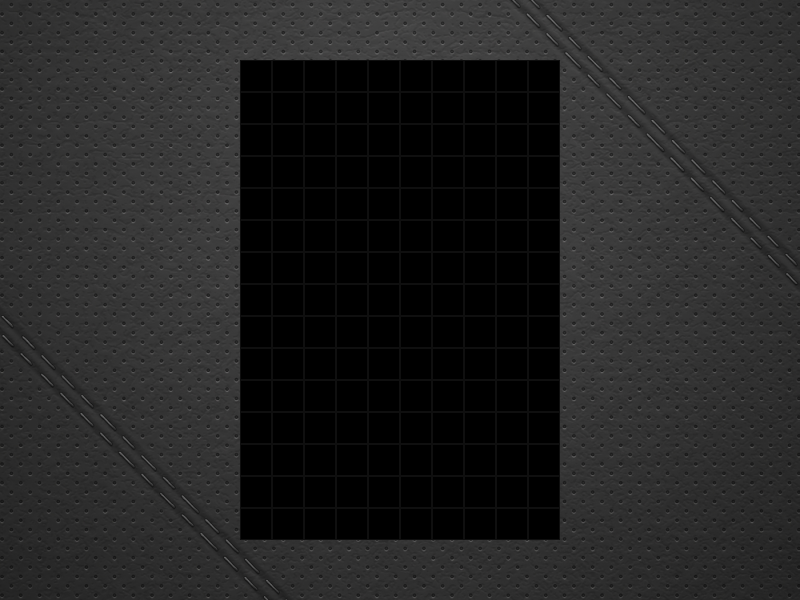
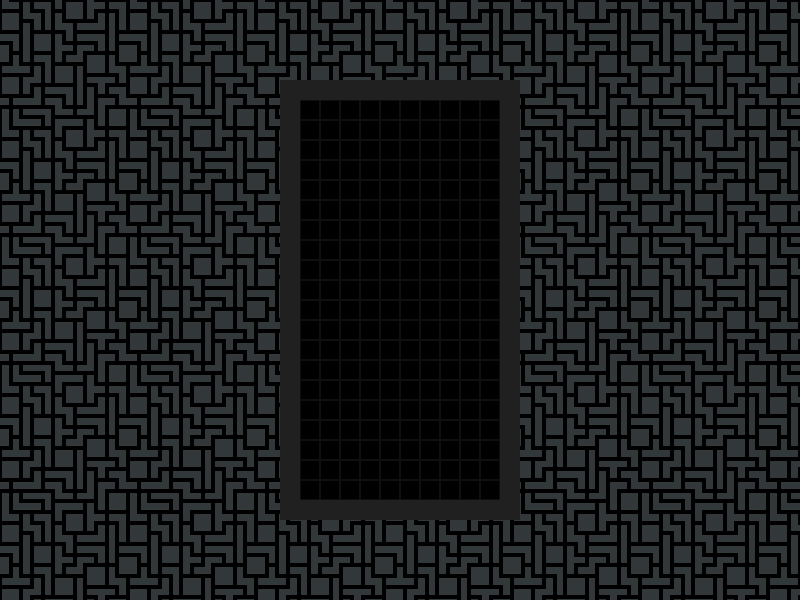
Better sounds and textures + Game over state

diff --git a/KeyboardInputs.cs b/KeyboardInputs.cs
@@ -24,8 +24,9 @@ namespace Tetris
 
     class KeyboardInputs : IKeyboardInputs
     {
-        private const int InitialDelay = 500;
-        private const int SmallDelays = 150;
+        private const int InitialDelay = 250;
+        private const int SmallDelays = 100;
+        private const int DropDelay = 25;
 
         private TimeSpan[] LastTimeKeyWasPressed;
         private TimeSpan[] RepetitionDelay;
@@ -96,8 +97,7 @@ namespace Tetris
 
             if (k == InputKey.FallKey)
             {
-                int delay = 50;
-                gm.gravity.SetGravitySpeed(TimeSpan.FromMilliseconds(delay));
+                gm.gravity.SetGravitySpeed(TimeSpan.FromMilliseconds(DropDelay));
                 gm.gravity.GravityTimer = TimeSpan.Zero;
             }
 
@@ -148,7 +148,7 @@ namespace Tetris
 
                     if (gm.CurrentShape.Rotate(gm.playField, k == InputKey.RotateClockwise ? RotateDirection.Clockwise : RotateDirection.CounterClockwise))
                     {
-                        gm.soundManager.Play(TetrisSoundsFX.MoveSound);
+                        gm.soundManager.Play(TetrisSoundsFX.RotateSound);
                     }
                 }
             }
@@ -191,11 +191,11 @@ namespace Tetris
         {
             switch (k)
             {
-                case Keys.Up: return InputKey.DebugMoveUpKey;
-                case Keys.Down: return InputKey.DebugMoveDownKey;
+                //case Keys.Up: return InputKey.DebugMoveUpKey;
+                //case Keys.Down: return InputKey.DebugMoveDownKey;
                 case Keys.Left: return InputKey.LeftKey;
                 case Keys.Right: return InputKey.RightKey;
-                case Keys.Space: return InputKey.FallKey;
+                case Keys.Down: return InputKey.FallKey;
                 case Keys.NumPad1: return InputKey.RotateCounterClockwise;
                 case Keys.NumPad3: return InputKey.RotateClockwise;
                 case Keys.P: return InputKey.PauseKey;

diff --git a/Gravity.cs b/Gravity.cs
@@ -56,14 +56,18 @@ namespace Tetris
                     else
                     {
                         // Reset the block falling speed
-                        gm.soundManager.Play(TetrisSoundsFX.StickSound);
+                        gm.soundManager.Play(TetrisSoundsFX.LockSound);
 
                         // We can't move it down further, so add it to the static array 
-                        gm.playField.AddShapeToCellsArray(gm.CurrentShape);
+                        if (!gm.playField.AddShapeToCellsArray(gm.CurrentShape)) 
+                        {
+                            gm.SetGameState(GameStates.GameOver);
+                            return;
+                        }
+
                         gm.CurrentShape.Hide();
 
                         // Clear the lines
-
                         if (gm.playField.ClearLines(ref LinesCleared))
                         {
                             // We have some lines to clear...
@@ -99,7 +103,7 @@ namespace Tetris
                     }
                     else
                     {
-                        gm.soundManager.Play(TetrisSoundsFX.StickSound);
+                        gm.soundManager.Play(TetrisSoundsFX.LockSound);
                     }
                 }
             }

diff --git a/PlayField.cs b/PlayField.cs
@@ -15,9 +15,9 @@ namespace Tetris
 {
     class PlayField
     {
-        public const int CellSize = 32;
+        public const int CellSize = 20;
         public const int NumCellsOnXAxis = 10;
-        public const int NumCellsOnYAxis = 15;
+        public const int NumCellsOnYAxis = 20;
 
         public struct CellData
         {
@@ -115,8 +115,10 @@ namespace Tetris
             }
         }
 
-        public void AddShapeToCellsArray(BaseTetrisShape CurrentShape) // This goes in game manager
+        public bool AddShapeToCellsArray(BaseTetrisShape CurrentShape) // This goes in game manager
         {
+            bool res = true;
+
             for (int i = 0; i < 4; i++)
             {
                 Vec2 v = CurrentShape.GetBlockPosition(i);
@@ -128,9 +130,13 @@ namespace Tetris
                     Cells[y, x].IsCellFilled = true;
                     Cells[y, x].CellColor = CurrentShape.ShapeColor;
                 }
+                else 
+                {
+                    res = false;
+                }
             }
 
-            //ClearLines(CurrentShape);
+            return res;
         }
 
         public bool IsRowFilled(int y)

diff --git a/SoundManager.cs b/SoundManager.cs
@@ -12,22 +12,23 @@ using Microsoft.Xna.Framework.GamerServices;
 
 namespace Tetris
 {
-    enum TetrisSoundsFX { MoveSound, StickSound/*, PauseSound*/ }
+    enum TetrisSoundsFX { MoveSound, RotateSound, LockSound }
 
     class SoundManager
     {
         private SoundEffect[] Effects;
 
         public SoundManager()
-        { 
-            int NumItems =  TetrisSoundsFX.GetNames(typeof(Shapes)).Length;
+        {
+            int NumItems = TetrisSoundsFX.GetNames(typeof(TetrisSoundsFX)).Length;
             Effects = new SoundEffect[NumItems];
         }
 
         public void Load(ContentManager cm)
         {
-            Effects[(int)TetrisSoundsFX.MoveSound] = cm.Load<SoundEffect>("Blip");
-            Effects[(int)TetrisSoundsFX.StickSound] = cm.Load<SoundEffect>("Stick");
+            Effects[(int)TetrisSoundsFX.MoveSound] = cm.Load<SoundEffect>("Move");
+            Effects[(int)TetrisSoundsFX.RotateSound] = cm.Load<SoundEffect>("Rotate");
+            Effects[(int)TetrisSoundsFX.LockSound] = cm.Load<SoundEffect>("Lock");
         }
 
         public void Play(TetrisSoundsFX SndFX)

diff --git a/Shapes.cs b/Shapes.cs
@@ -185,7 +185,7 @@ namespace Tetris
         {
             // Get the current blocks position matrix
             TetrisMatrix BlockPos = GetMultipliedMatrix();
-            
+
             int d = (int)Dir;
             BlockPos += TranslationMatrix.Mat[d];
 
@@ -204,6 +204,28 @@ namespace Tetris
             }
 
             // return true if we can move there
+            return true;
+        }
+
+        public bool CanSpawn(PlayField playField)
+        {
+            // Get the current blocks position matrix
+            TetrisMatrix BlockPos = GetMultipliedMatrix();
+
+            // For each block
+            for (int i = 0; i < NumBlockPerShapes; i++)
+            {
+                // Add the move direction vector
+
+                // Simplify...
+                int x = BlockPos.Mat[i].x;
+                int y = BlockPos.Mat[i].y;
+
+                // return false if the shape can't spawn here
+                if (!IsCellPositionValid(playField, playField.GetCell(x, y), x, y))
+                    return false;
+            }
+
             return true;
         }
 

diff --git a/GameManager.cs b/GameManager.cs
@@ -59,7 +59,7 @@ namespace Tetris
         public void Reset()
         {
             playField.Reset();
-            playField.CreateDebugPattern();
+            //playField.CreateDebugPattern();
             gravity.Reset();
             SpawnRandomShape((int)Shapes.L);
             //GameGravity.Enabled = false;
@@ -94,6 +94,11 @@ namespace Tetris
             }
             
             CurrentShape.Show();
+
+            // Game Over Test
+            if (!CurrentShape.CanSpawn(playField)) {
+                SetGameState(GameStates.GameOver);
+            }
         }
 
         public void Update(GameTime gameTime)
@@ -112,7 +117,6 @@ namespace Tetris
             CurrentShape.Draw(spriteBatch, Block, playField);
 
             spriteBatch.End();
-
         }
     }
 }
